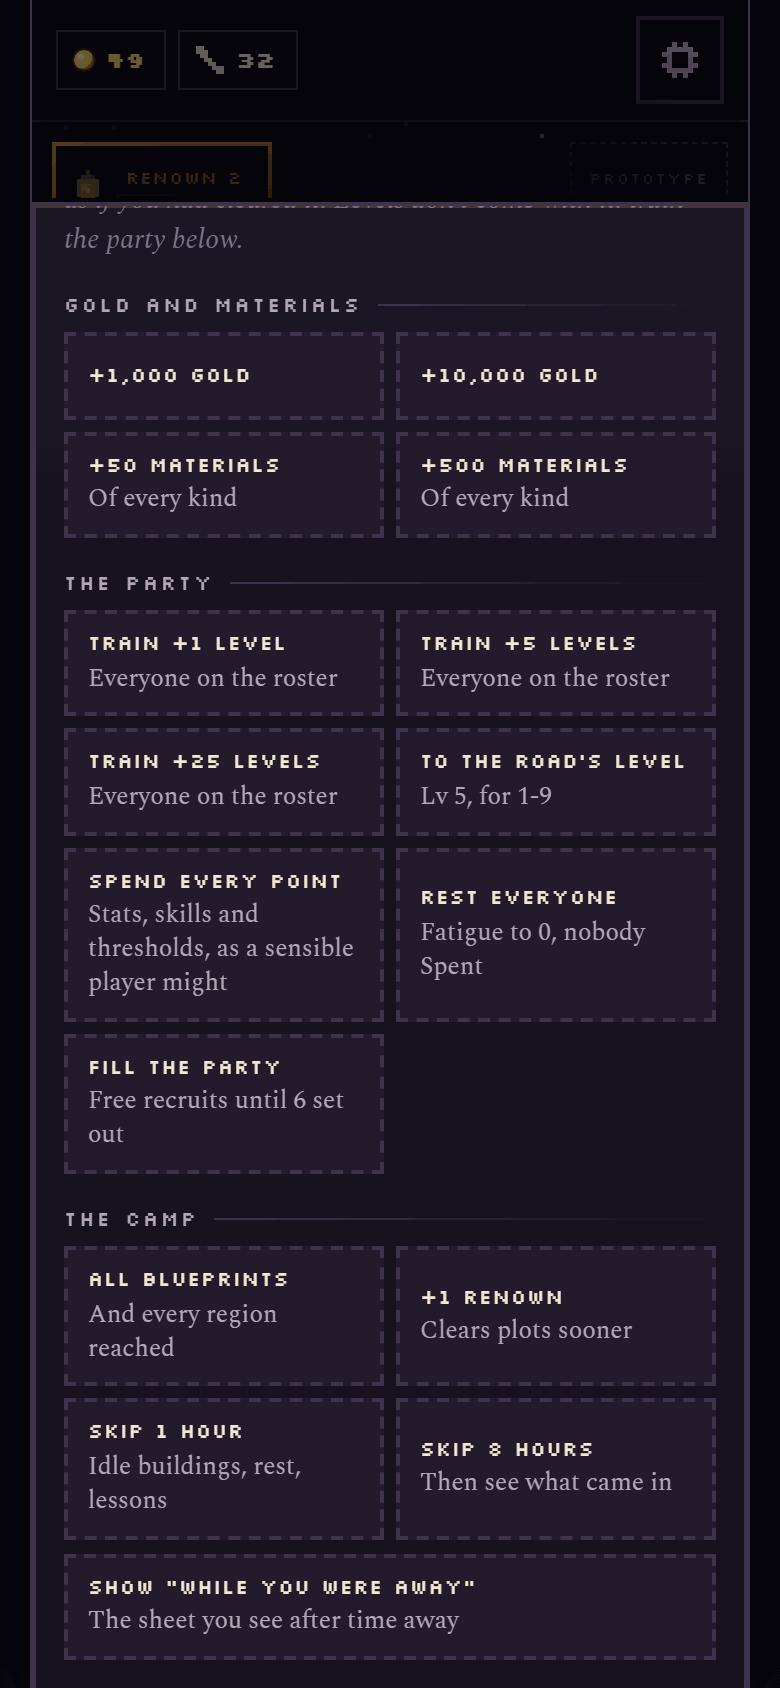
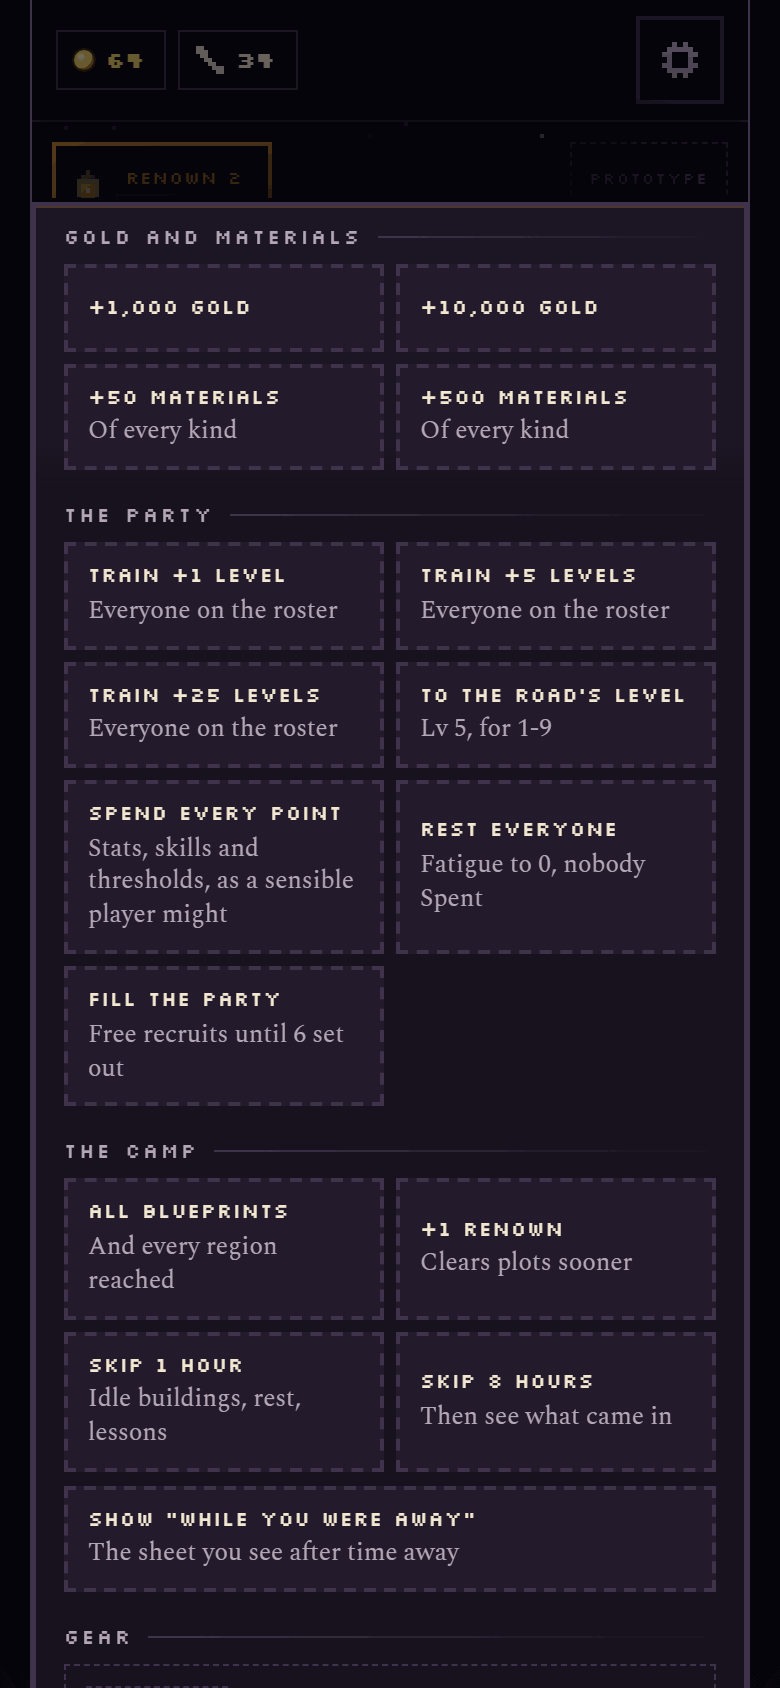
Final pass on Regions II–V: Hidden, Move and Gather moments, foe traits on the stage sheet, toasts clear of open sheets
- A foe that starts Hidden is named at the first turn of its battle, before anyone misses it. A hero's first Move
  and first Gather get their one-line tip.
- The stage sheet's foe card says what a foe does that its skills don't: starts Hidden, or heals a share of its
  health every turn.
- Toasts no longer cover an open bottom sheet's title (the coordinator's 'RENOWN 2' over Prototype tools: the camp's
  Renown toast, drawn above sheets). While a sheet is open they sit in the strip above it.
- The Prototype panel's switch no longer mentions the stage sheet's Rest all (PR #17 removed it), and Rest everyone
  builds on Campaign.restAll.
- Tactician I's new-thing row names the Move action.
- docs/screens/polish: 4-18's banner before and after, the region banners at 640 and 844, the Bishop's phase at
  640×360, the Hidden, Lure and Move tips, the Hanged Man's card, the panel re-shot, and a toast over the panel.

diff --git a/js/proto.js b/js/proto.js
@@ -2,7 +2,7 @@
 // Lantern Road · the prototype tools, in one panel (build step 7b). They skip the grind so the user can review later
 // content quickly. They are not part of the game: Settings → Prototype tools opens them, and the "Show prototype tools"
 // toggle there also shows or hides the buttons in place (the camp's chip, Train on the hero sheet, Roll gear in the Bag
-// and on the Gear tab, Rest all on the stage sheet, Learn all on Tactics). Each of those carries the class
+// and on the Gear tab, Learn all on Tactics). Each of those carries the class
 // `proto-only`; <body> gets `no-proto` when the toggle is off (App.applySettings).
 //
 // To remove the tools before release: delete this file and its <script> tag, the elements with `proto-only`, and
@@ -42,8 +42,10 @@ const Proto = (() => {
   const roadLevel = (s = st()) => (STAGES[Campaign.frontier(s)] || STAGES[STAGES.length - 1]).level;
   function trainTo(L, s = st()) { for (const c of s.roster) if (c.level < L) Hero.gainXp(c, Hero.xpBetween(c.level, Math.min(HERO.CAP, L))); }
   function spendPoints(s = st()) { for (const c of s.roster) Hero.autoBuild(c); }
+  // Campaign.restAll (fatigue to 0, kept for the tests), and nobody Spent or in a bed: in the game, rest takes time.
   function restAll(s = st()) {
-    for (const c of s.roster) { c.fatigue = 0; c.spent = false; }
+    Campaign.restAll(s);
+    for (const c of s.roster) c.spent = false;
     if (s.base) s.base.beds = s.base.beds.map(() => null);
   }
   // Free recruits until six stand in the formation, at the party's level, of classes the board offers.
@@ -89,7 +91,7 @@ const Proto = (() => {
       h('h2', { text: 'Prototype tools' }),
       h('p', { class: 'flavor', text: 'They skip the grind so you can try later content quickly. They are not part of the game, and they come out before release.' }),
       h('div', { class: 'setting' }, h('div', { class: 'nm', text: 'Show prototype tools' }),
-        h('div', { class: 'ds', text: 'Also shows the buttons where they’re used: the camp’s chip, Train on the hero sheet, Roll gear in the Bag, Rest all on the stage sheet and Learn all on Tactics.' }),
+        h('div', { class: 'ds', text: 'Also shows the buttons where they’re used: the camp’s chip, Train on the hero sheet, Roll gear in the Bag and on the Gear tab, and Learn all on Tactics.' }),
         h('button', { class: 'small' + (on ? ' on' : ''), role: 'switch', 'aria-checked': on ? 'true' : 'false', 'aria-label': 'Show prototype tools', onclick: () => { click(); s.settings.proto = !on; App.applySettings(true); Save.commit(); App.refresh(); show(true); } }, on ? 'On' : 'Off')),
       sect('The road',
         h('p', { class: 'pt-now', text: at ? `${lit} of ${STAGES.length} stages lit · next: ${at.id} ${at.name}, ${R.name}` : `All ${STAGES.length} built stages lit` }),

diff --git a/js/guide.js b/js/guide.js
@@ -120,7 +120,7 @@ const Guide = (() => {
     recruitboard: () => ({ line: 'It stands at camp, and your first recruit is free.', label: 'Recruit', fn: goBoard }),
     items: () => ({ line: 'Two Healing Draughts are packed. A party rule uses one when an ally drops below half health, or tap one in battle.', label: 'The loadout', fn: () => App.actions.tactics('party', 'map') }),
     keepgoing: () => ({ line: 'After a win the party walks on to the next stage. The come-home rule brings everyone back at 75 fatigue.' }),
-    tactician: () => ({ line: 'Thresholds, Focus fire, saved rule sets and a dozen new conditions are yours. The Tactician’s blueprint comes with it: rule and loadout slots.', label: 'Open Tactics', fn: () => App.actions.tactics(leader(), 'map') }),
+    tactician: () => ({ line: 'Thresholds, Focus fire, the Move action, saved rule sets and a dozen new conditions are yours. The Tactician’s blueprint comes with it: rule and loadout slots.', label: 'Open Tactics', fn: () => App.actions.tactics(leader(), 'map') }),
     gravecaller: () => ({ line: 'A new class joins the Recruit Board: the Gravecaller, who raises thralls from the fallen.', label: 'Recruit', fn: goBoard }),
   };
   function newRow(id) {

diff --git a/js/main.js b/js/main.js
@@ -441,12 +441,17 @@ const TIPS = {
   regen: 'Regenerating: this foe heals at the start of every turn. Hit it hard and fast.',
   splash: 'Splash: a heavy blow on the front row spills onto the hero behind.',
   threshold: 'A threshold: choose what it opens on the hero’s Skills tab, the next tier or more.',
+  move: 'Move: a rule sent this hero to the other row. It costs the turn.',
+  gather: 'Gather: no attack this turn, but twice the mana back.',
 };
 function showTip(k, text) { Guide.tip(k, text || TIPS[k]); }
 const isHeroId = id => /^p\d$/.test(id);
 function battleTip(e) {
   if (!current) return;
   Guide.battleEvent(e);
+  // A foe that starts the battle Hidden (Region III's Hanged Man): said at the first turn, before anyone misses it.
+  if (e.t === 'turn' && current.res && current.res.start.some(u => u.side === 1 && u.st && u.st.hidden)) showTip('hidden');
+  if (e.t === 'act' && isHeroId(e.who) && (e.skill === 'move' || e.skill === 'gather')) showTip(e.skill);
   if (e.t === 'status' && e.on && isHeroId(e.who) && (e.key === 'bleed' || e.key === 'marked')) showTip(e.key);
   else if (e.t === 'hit' && e.guard && e.tgt[0] === 'f') {
     const g = current.res && current.res.start.find(u => u.id === e.tgt);

diff --git a/js/map.js b/js/map.js
@@ -311,6 +311,8 @@ const RoadMap = (() => {
     return h('div', { class: 'foeinfo' },
       h('div', { class: 'fi-h' }, h('b', { text: F.name }), h('span', { text: `${F.boss ? 'Boss' : F.elite ? 'Elite' : 'Foe'} · Lv ${L}${F.tags && F.tags.length ? ' · ' + F.tags.map(t => TAGS[t]).join(', ') : ''}` })),
       h('p', { class: 'flavor', text: F.intro || '' }),
+      // What the foe does that its skills don't say: it starts Hidden, or heals every turn.
+      F.hidden || F.regen ? h('p', { class: 'fi-tr', text: [F.hidden ? 'Starts Hidden: single-target attacks can’t aim at it until it attacks' : null, F.regen ? `Heals ${+(F.regen * 100).toFixed(1)}% of its health every turn` : null].filter(Boolean).join(' · ') }) : null,
       h('div', { class: 'fi-st' }, [['heart', fs.hp, 'Health'], ['sword', Math.round(fs.pow), 'Power'], ['shield', Math.round(fs.def), 'Defense'], ['boot', fs.spd.toFixed(1), 'Speed']].map(([i, v, k]) => h('span', { title: k }, ico(i), v))),
       h('ul', { class: 'fi-sk' }, [F.basic, ...F.skills].filter(id => SKILLS[id]).map(sk), phase),
       h('div', { class: 'fi-res' }, RES_KEYS.map(k => h('span', {}, RESISTS[k].name, h('b', { text: Math.round(fs.res[k]) + '%' })))));

diff --git a/css/polish.css b/css/polish.css
@@ -116,3 +116,8 @@ body.no-proto .proto-only{display:none!important}
 
 /* A sheet redrawn in place (a switch flipped in Settings, a tool used in the Prototype panel) doesn't rise again. */
 #sheet .box.quiet{animation:none}
+
+/* A toast while a bottom sheet is open sits over the dimmed strip above it, not on the sheet's title. */
+#frame:has(#sheet.sheet-bottom:not([hidden])) #toasts{top:calc(12px + env(safe-area-inset-top,0px));bottom:auto}
+/* The stage sheet's foe card: what a foe does that its skills don't say (Hidden, healing every turn). */
+.fi-tr{margin:0;font-size:13px;line-height:1.35;color:var(--ember)}
